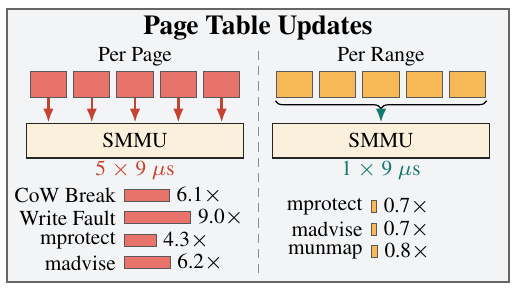
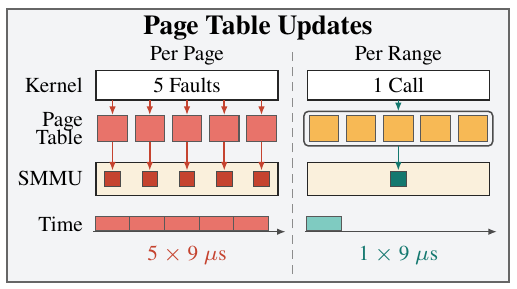
Draw the invalidation panel as the path of an update through kernel, page table, SMMU and time

diff --git a/figures/src/bg_cow_flush.tex b/figures/src/bg_cow_flush.tex
@@ -1,42 +1,47 @@
-% Background: every page whose entry changes costs the process one SMMU
-% invalidation; an operation on a range pays it once. The bars are the time
-% of an operation in a process that uses the GPU relative to one that does
-% not (thor_hostmm, 20261005-mm-tax-v1, one thread).
+% Background: what a change of page table entries costs a process that uses
+% the GPU. Every event that changes one entry issues its own invalidation to
+% the SMMU and waits for it; a call on a range changes all of its entries
+% and issues one.
 \documentclass[border=2pt]{standalone}
 \input{llmshare_style}
 \begin{document}
-\begin{tikzpicture}[x=1cm, y=1cm]
+\begin{tikzpicture}[x=1cm, y=1cm, tiny/.style={-{Latex[length=1.0mm]}, line width=0.5pt}]
 \draw[layer] (0,0) rectangle (5.8,3.15);
 \node[ttl] at (2.9,2.93) {Page Table Updates};
-\draw[black!45, line width=0.3pt, densely dashed] (2.9,0.1) -- (2.9,2.72);
-% per page
-\node[tag] at (1.48,2.6) {Per Page};
+\begin{scope}[yshift=-0.05cm]
+\draw[black!45, line width=0.3pt, densely dashed] (3.3,0.14) -- (3.3,2.76);
+% the layers that an update passes
+\node[tag, anchor=east] at (0.92,2.32) {Kernel};
+\node[tag, anchor=east, align=right] at (0.92,1.82) {Page\\[-2pt]Table};
+\node[tag, anchor=east] at (0.92,1.24) {SMMU};
+\node[tag, anchor=east] at (0.92,0.72) {Time};
+% per page: five events, five entries, five invalidations, five waits
+\node[tag] at (2.08,2.66) {Per Page};
+\node[comp, minimum width=2.1cm, minimum height=0.34cm] at (2.08,2.32) {5 Faults};
+\node[comp, fill=ptc, minimum width=2.1cm, minimum height=0.38cm] at (2.08,1.24) {};
+\draw[tiny, black!70] (1.0,0.63) -- (3.22,0.63);
 \foreach \k in {0,...,4} {
-  \node[blk, fill=faultc, minimum height=0.3cm] (p\k) at (0.48+\k*0.5,2.28) {};
-  \draw[arr, rwline] (p\k.south) -- (0.48+\k*0.5,1.84);
+  \node[blk, fill=faultc, minimum width=0.34cm, minimum height=0.3cm] (p\k) at (1.22+\k*0.43,1.82) {};
+  \draw[tiny, rwline] (1.22+\k*0.43,2.15) -- (p\k.north);
+  \node[draw=black!70, fill=rwline, line width=0.3pt, minimum size=0.18cm, inner sep=0pt] (c\k) at (1.22+\k*0.43,1.24) {};
+  \draw[tiny, rwline] (p\k.south) -- (c\k.north);
+  \draw[black!65, line width=0.3pt, fill=faultc] (1.02+\k*0.4,0.65) rectangle ++(0.4,0.16);
 }
-\node[comp, fill=ptc, minimum width=2.5cm, minimum height=0.4cm] at (1.48,1.63) {SMMU};
-\node[tag, text=rwline] at (1.48,1.29) {5 $\times$ 9 $\mu$s};
-% per range
-\node[tag] at (4.32,2.6) {Per Range};
+\node[tag, text=rwline] at (2.08,0.36) {5 $\times$ 9 $\mu$s};
+% per range: one call, the same five entries, one invalidation, one wait
+\node[tag] at (4.52,2.66) {Per Range};
+\node[comp, minimum width=2.1cm, minimum height=0.34cm] at (4.52,2.32) {1 Call};
+\draw[black!70, line width=0.5pt, rounded corners=1.5pt] (3.43,1.62) rectangle (5.61,2.02);
 \foreach \k in {0,...,4} {
-  \node[blk, fill=tailc, minimum height=0.3cm] (r\k) at (3.32+\k*0.5,2.28) {};
+  \node[blk, fill=tailc, minimum width=0.34cm, minimum height=0.3cm] (r\k) at (3.66+\k*0.43,1.82) {};
 }
-\draw[decorate, decoration={brace, amplitude=2.5pt, mirror}] (3.1,2.09) -- (5.54,2.09);
-\draw[arr, roline] (4.32,2.0) -- (4.32,1.84);
-\node[comp, fill=ptc, minimum width=2.5cm, minimum height=0.4cm] at (4.32,1.63) {SMMU};
-\node[tag, text=roline] at (4.32,1.29) {1 $\times$ 9 $\mu$s};
-% the time of four operations per page and three per range, relative to a
-% process without the GPU; 0.085 cm for each factor of one
-\foreach \name/\ratio/\y in {CoW Break/6.1/1.0, Write Fault/9.0/0.74, mprotect/4.3/0.48, madvise/6.2/0.22} {
-  \node[tag, anchor=east] at (1.3,\y) {\name};
-  \fill[faultc, draw=black!65, line width=0.3pt] (1.36,\y-0.07) rectangle ++(\ratio*0.085,0.14);
-  \node[tag, anchor=west] at (1.4+\ratio*0.085,\y) {\ratio$\times$};
-}
-\foreach \name/\ratio/\y in {mprotect/0.7/0.87, madvise/0.7/0.61, munmap/0.8/0.35} {
-  \node[tag, anchor=east] at (4.15,\y) {\name};
-  \fill[tailc, draw=black!65, line width=0.3pt] (4.21,\y-0.07) rectangle ++(\ratio*0.085,0.14);
-  \node[tag, anchor=west] at (4.25+\ratio*0.085,\y) {\ratio$\times$};
-}
+\draw[tiny, roline] (4.52,2.15) -- (4.52,2.02);
+\node[comp, fill=ptc, minimum width=2.1cm, minimum height=0.38cm] at (4.52,1.24) {};
+\node[draw=black!70, fill=roline, line width=0.3pt, minimum size=0.18cm, inner sep=0pt] (cr) at (4.52,1.24) {};
+\draw[tiny, roline] (4.52,1.62) -- (cr.north);
+\draw[tiny, black!70] (3.44,0.63) -- (5.66,0.63);
+\draw[black!65, line width=0.3pt, fill=sharedc] (3.46,0.65) rectangle ++(0.4,0.16);
+\node[tag, text=roline] at (4.52,0.36) {1 $\times$ 9 $\mu$s};
+\end{scope}
 \end{tikzpicture}
 \end{document}
